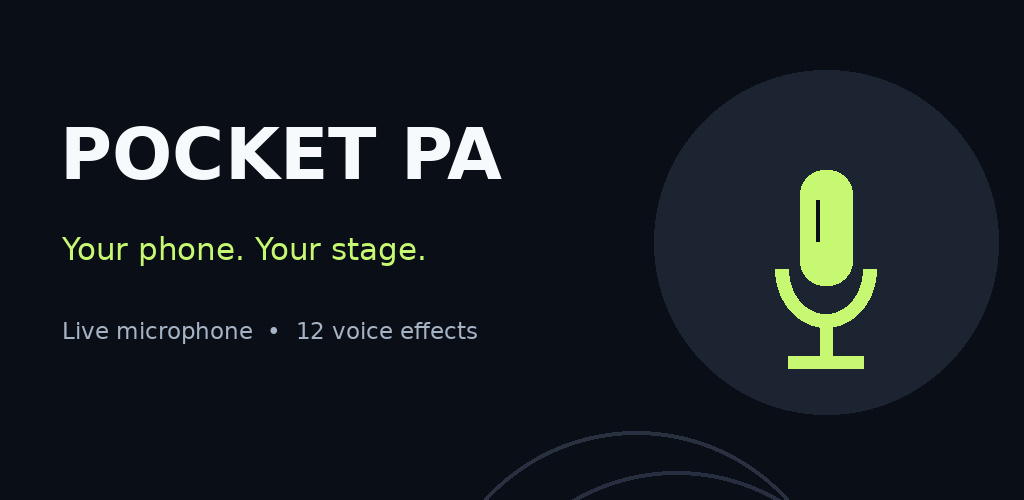
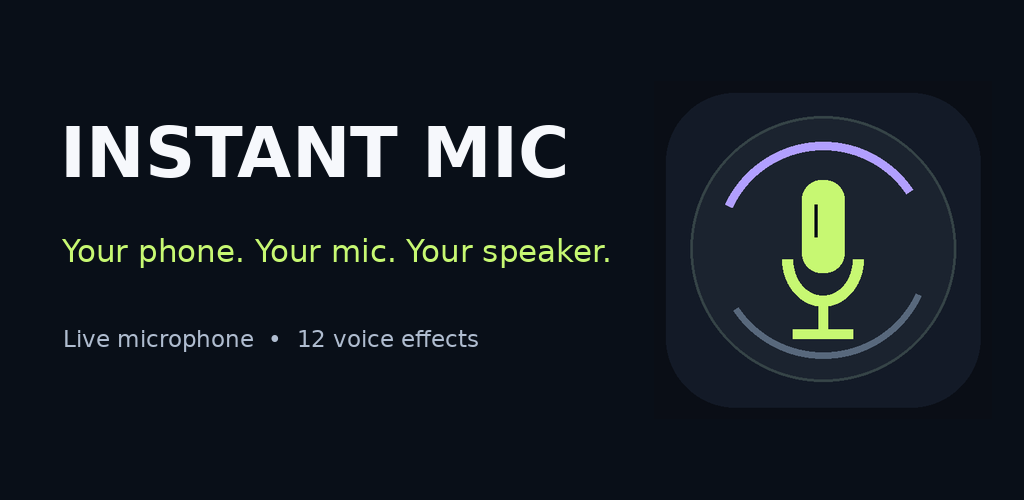
Rebrand Pocket PA to Instant Mic with Play Store title and v2.1 APK

diff --git a/pocket-pa/play-store/privacy.html b/pocket-pa/play-store/privacy.html
@@ -2,15 +2,15 @@
 <html lang="en">
 <head>
 <meta charset="utf-8"><meta name="viewport" content="width=device-width, initial-scale=1">
-<title>Pocket PA — Privacy Policy</title>
+<title>Instant Mic — Privacy Policy</title>
 <style>body{background:#0a0e16;color:#f7fafd;font-family:system-ui,sans-serif;max-width:720px;margin:45px auto;padding:0 20px;line-height:1.7}h1,h2{color:#c7f872}a{color:#b19fff}small{color:#a0aec0}</style>
 </head>
 <body>
-<h1>Pocket PA — Privacy Policy</h1>
+<h1>Instant Mic — Privacy Policy</h1>
 <small>Effective November 6, 2026</small>
-<p>Pocket PA is an independent, offline Android microphone and voice-effects app.</p>
+<p>Instant Mic is an independent, offline Android microphone and voice-effects app.</p>
 <h2>Microphone</h2>
-<p>When you press Start, Pocket PA captures live microphone audio, processes it on-device and plays it through your chosen media output. It does not save recordings, upload audio, or transmit audio to servers. The microphone stops when you stop it or Android ends the service.</p>
+<p>When you press Start, Instant Mic captures live microphone audio, processes it on-device and plays it through your chosen media output. It does not save recordings, upload audio, or transmit audio to servers. The microphone stops when you stop it or Android ends the service.</p>
 <h2>Bluetooth and notifications</h2>
 <p>Bluetooth permission, if granted, is used to identify and display the name of connected audio devices. Notifications show when the microphone is live and include a Stop control.</p>
 <h2>Collection and retention</h2>

diff --git a/pocket-pa/app/src/main/java/com/niru/pocketpa/MainActivity.java b/pocket-pa/app/src/main/java/com/niru/pocketpa/MainActivity.java
@@ -114,7 +114,7 @@ public final class MainActivity extends Activity {
         symbol.setBackground(round(LIME, 17, null));
         header.addView(symbol, new LinearLayout.LayoutParams(dp(51), dp(51)));
         LinearLayout identity = vertical();
-        identity.addView(label("Pocket PA", 23, WHITE, Typeface.BOLD));
+        identity.addView(label("Instant Mic", 23, WHITE, Typeface.BOLD));
         TextView caption = label("LIVE AUDIO • VOICE STUDIO", 10, MUTED, Typeface.BOLD);
         caption.setLetterSpacing(0.14f);
         identity.addView(caption);
@@ -310,7 +310,7 @@ public final class MainActivity extends Activity {
         privacy.setPadding(dp(8), dp(10), dp(8), dp(10));
         privacy.setOnClickListener(v -> new AlertDialog.Builder(this)
                 .setTitle("Your privacy matters")
-                .setMessage("Pocket PA accesses your microphone only after you press Start. Audio is processed on your phone and streamed to your chosen output. It is not saved, collected, shared, or transmitted to a server. A foreground notification lets you stop playback at any time. Bluetooth permission is only used to show available device names. You can stop the mic or revoke permissions in Android Settings.")
+                .setMessage("Instant Mic accesses your microphone only after you press Start. Audio is processed on your phone and streamed to your chosen output. It is not saved, collected, shared, or transmitted to a server. A foreground notification lets you stop playback at any time. Bluetooth permission is only used to show available device names. You can stop the mic or revoke permissions in Android Settings.")
                 .setPositiveButton("Got it", null).show());
         page.addView(privacy);
     }

diff --git a/pocket-pa/app/src/main/java/com/niru/pocketpa/MicService.java b/pocket-pa/app/src/main/java/com/niru/pocketpa/MicService.java
@@ -109,7 +109,7 @@ public final class MicService extends Service {
                 PendingIntent.FLAG_UPDATE_CURRENT | PendingIntent.FLAG_IMMUTABLE);
         return new Notification.Builder(this, CHANNEL)
                 .setSmallIcon(com.niru.pocketpa.R.drawable.ic_mic)
-                .setContentTitle("Pocket PA · microphone live")
+                .setContentTitle("Instant Mic · microphone live")
                 .setContentText("Your voice is being sent to the media speaker")
                 .setContentIntent(openAction)
                 .addAction(android.R.drawable.ic_media_pause, "Stop microphone", stopAction)

diff --git a/pocket-pa/PRIVACY.md b/pocket-pa/PRIVACY.md
@@ -1,12 +1,12 @@
-# Privacy Policy — Pocket PA
+# Privacy Policy — Instant Mic
 
 **Effective date: November 6, 2026**
 
-Pocket PA is an offline microphone and voice-effects app for Android, developed as an independent project. This policy explains its use of device data.
+Instant Mic is an offline microphone and voice-effects app for Android, developed as an independent project. This policy explains its use of device data.
 
 ## Audio and microphone
 
-The app asks for microphone access when you tap **Start Microphone**. Sound is processed in memory on the phone, with optional live voice effects, then sent to the device's chosen audio output (such as a connected Bluetooth speaker). **Pocket PA does not record or store audio**, does not upload sound, and does not transmit microphone data to any server. Mic capture stops when you press Stop, stop the foreground notification, or the Android system stops the service.
+The app asks for microphone access when you tap **Start Microphone**. Sound is processed in memory on the phone, with optional live voice effects, then sent to the device's chosen audio output (such as a connected Bluetooth speaker). **Instant Mic does not record or store audio**, does not upload sound, and does not transmit microphone data to any server. Mic capture stops when you press Stop, stop the foreground notification, or the Android system stops the service.
 
 ## Bluetooth and notifications
 
@@ -14,7 +14,7 @@ On supported Android versions, Bluetooth permission is requested only to detect 
 
 ## Data collection, sharing, retention
 
-Pocket PA has no internet permission, no advertising SDK, no analytics SDK, and no tracking. It does not collect, share, sell, or retain personal data. Settings such as selected voice preset, levels, and gate sensitivity are saved locally using Android SharedPreferences. You can delete these settings by clearing app storage or uninstalling the app.
+Instant Mic has no internet permission, no advertising SDK, no analytics SDK, and no tracking. It does not collect, share, sell, or retain personal data. Settings such as selected voice preset, levels, and gate sensitivity are saved locally using Android SharedPreferences. You can delete these settings by clearing app storage or uninstalling the app.
 
 ## Children and safety
 

diff --git a/pocket-pa/play-store/RELEASE.md b/pocket-pa/play-store/RELEASE.md
@@ -1,10 +1,10 @@
-# Pocket PA — release runbook
+# Instant Mic — release runbook
 
 ## Build
 
 The repository workflow builds:
-- **PocketPA-v2-debug.apk:** for device testing; uses `com.niru.pocketpa.debug` so it can coexist with a later Play version.
-- **PocketPA-v2-UNSIGNED-release.aab:** *not uploadable to Play* until signed. A successful build is not a Play Store approval.
+- **InstantMic-v2.1-debug.apk:** for device testing; uses `com.niru.pocketpa.debug` so it can coexist with a later Play version.
+- **InstantMic-v2.1-UNSIGNED-release.aab:** *not uploadable to Play* until signed. A successful build is not a Play Store approval.
 
 ## Create an upload key on your own trusted machine
 
@@ -25,7 +25,7 @@ The workflow creates a signed AAB only if all four values are configured. Keep k
 
 1. Create an app with application ID `com.niru.pocketpa`.
 2. Enroll in Play App Signing and create an internal testing release.
-3. Upload the **signed** `PocketPA-v2-signed-release.aab` from the workflow.
+3. Upload the **signed** `InstantMic-v2.1-signed-release.aab` from the workflow.
 4. Add screenshots from a real device, the included listing copy, 512×512 icon, 1024×500 feature graphic, and a public privacy-policy URL.
 5. Fill out Data safety, app access, permissions, and content rating forms honestly.
 6. Run testing and apply for production access when eligible.

diff --git a/pocket-pa/play-store/STORE_LISTING.md b/pocket-pa/play-store/STORE_LISTING.md
@@ -1,14 +1,14 @@
-# Pocket PA — Google Play listing draft
+# Instant Mic — Google Play listing draft
 
-**App title:** Pocket PA: Live Bluetooth Mic
+**App title:** Instant Mic: Phone to Speaker
 
-**Short description:** Use your phone as a live mic for speakers, with 12 fun voice effects.
+**Short description:** Turn your phone into a Bluetooth mic with 12 fun voice effects.
 
 ## Full description
 
 Your pocket-sized microphone is ready whenever you are.
 
-Pocket PA turns your Android phone into a live microphone for your Bluetooth speaker or other selected audio output. Make announcements, practice karaoke, speak to a group, or experiment with real-time voice effects — without creating an account and without an internet connection.
+Instant Mic turns your Android phone into a live microphone for your Bluetooth speaker or other selected audio output. Make announcements, practice karaoke, speak to a group, or experiment with real-time voice effects — without creating an account and without an internet connection.
 
 Features:
 - Start and stop live microphone audio with one tap

diff --git a/pocket-pa/README.md b/pocket-pa/README.md
@@ -1,6 +1,6 @@
-# Pocket PA 2.0 — live Bluetooth microphone and voice studio
+# Instant Mic 2.1 — live Bluetooth microphone and voice studio
 
-Pocket PA is an **original, offline Android microphone app**, not a copy of another company's code. Speak into your phone and hear the processed voice on your selected audio output (including connected Bluetooth speakers). Bluetooth codec delay varies by device and cannot be eliminated in software.
+Instant Mic is an **original, offline Android microphone app**, not a copy of another company's code. Speak into your phone and hear the processed voice on your selected audio output (including connected Bluetooth speakers). Bluetooth codec delay varies by device and cannot be eliminated in software.
 
 ## What's in v2
 - Redesigned dark UI with a live audio level meter and large one-tap Start/Stop control
